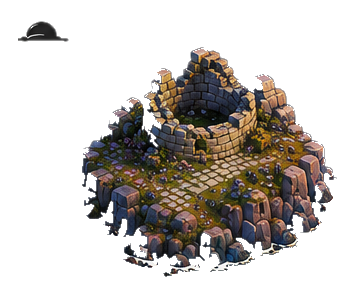
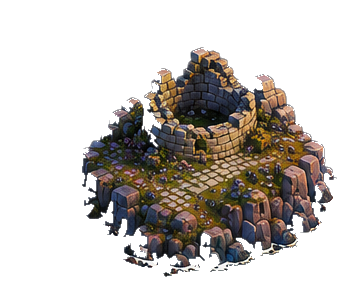
fix(art+map): clean baked-in black dot on lighthouse ruin; remove fixed-anchor sun-ray overlay
Lighthouse ruin black dot: baked into the source PNGs, not code-drawn.
Confirmed with a per-pixel scan of every prop_lighthouse* variant - only
prop_lighthouse_ruin.png and prop_lighthouse_ruin_dawn.png (the base/midday
and dawn ruin states) carried a solid black blob in the top-left corner, well
clear of the sprite itself; dusk/night ruin variants and every non-ruin
lighthouse state were already clean. Cleared the alpha in that corner region
on the 2 affected files with PIL; sprite pixels untouched (visually diffed
before/after).

Sun-ray overlay: map-view.ts drew a procedural "god-rays" fan (Batch 11
Environment Effects) anchored at a FIXED SKY_ANCHORS.godRays point, firing
whenever `!night && cloudCover < 0.55` - i.e. identically at dawn, midday and
dusk, in the identical spot, regardless of the actual sun position. The
painted map plates carry no sun lines of their own (confirmed), so this was
a redundant procedural overlay, not compensating for anything missing.
Removed the block entirely; left a comment explaining why. The other
SKY_ANCHORS.godRays reference (a moon/sun-disc fallback) is unrelated and
untouched - it only runs when no painted plate exists, which is dormant in
the live game since the Map V2 plates are present.

tsc + eslint clean (only the pre-existing drawFlower error remains, no new
unused vars from the removal); 450 tests green; vite build clean.

Changed region(s): [[0.0312, 0.0592, 0.2181, 0.148]]

diff --git a/src/ui/map-view.ts b/src/ui/map-view.ts
@@ -3748,29 +3748,12 @@ export class MapView {
       }
       ctx.restore();
     }
-    // God-rays fanning from the low sun on clear-ish days.
-    if (!night && mood.cloudCover < 0.55) {
-      const sx = SKY_ANCHORS.godRays.x * W;
-      const sy = SKY_ANCHORS.godRays.y * H;
-      ctx.save();
-      ctx.globalCompositeOperation = 'lighter';
-      for (let i = 0; i < 5; i++) {
-        const a = 0.9 + i * 0.34 + Math.sin(t / 5000 + i) * 0.05;
-        const len = H * 0.7;
-        const spread = 0.05;
-        const g = ctx.createLinearGradient(sx, sy, sx + Math.cos(a) * len, sy + Math.sin(a) * len);
-        g.addColorStop(0, `rgba(255, 232, 175, ${(0.06 * (1 - mood.cloudCover)).toFixed(3)})`);
-        g.addColorStop(1, 'rgba(255, 232, 175, 0)');
-        ctx.fillStyle = g;
-        ctx.beginPath();
-        ctx.moveTo(sx, sy);
-        ctx.lineTo(sx + Math.cos(a - spread) * len, sy + Math.sin(a - spread) * len);
-        ctx.lineTo(sx + Math.cos(a + spread) * len, sy + Math.sin(a + spread) * len);
-        ctx.closePath();
-        ctx.fill();
-      }
-      ctx.restore();
-    }
+    // God-rays fan (removed): it was anchored at a fixed SKY_ANCHORS.godRays
+    // point regardless of the actual time of day, so dawn/midday/dusk all
+    // showed the identical ray fan in the identical spot on the painted plate
+    // — which has no sun lines painted into it at all. Reported as a visible
+    // bug; the painted plates already carry their own light, so this
+    // procedural overlay was pure redundancy, not a fix for a missing one.
 
     // Soft parallax cloud shadows drifting across the island in the REAL wind
     // direction — a whole layer of dappled light moving the way the wind blows.
